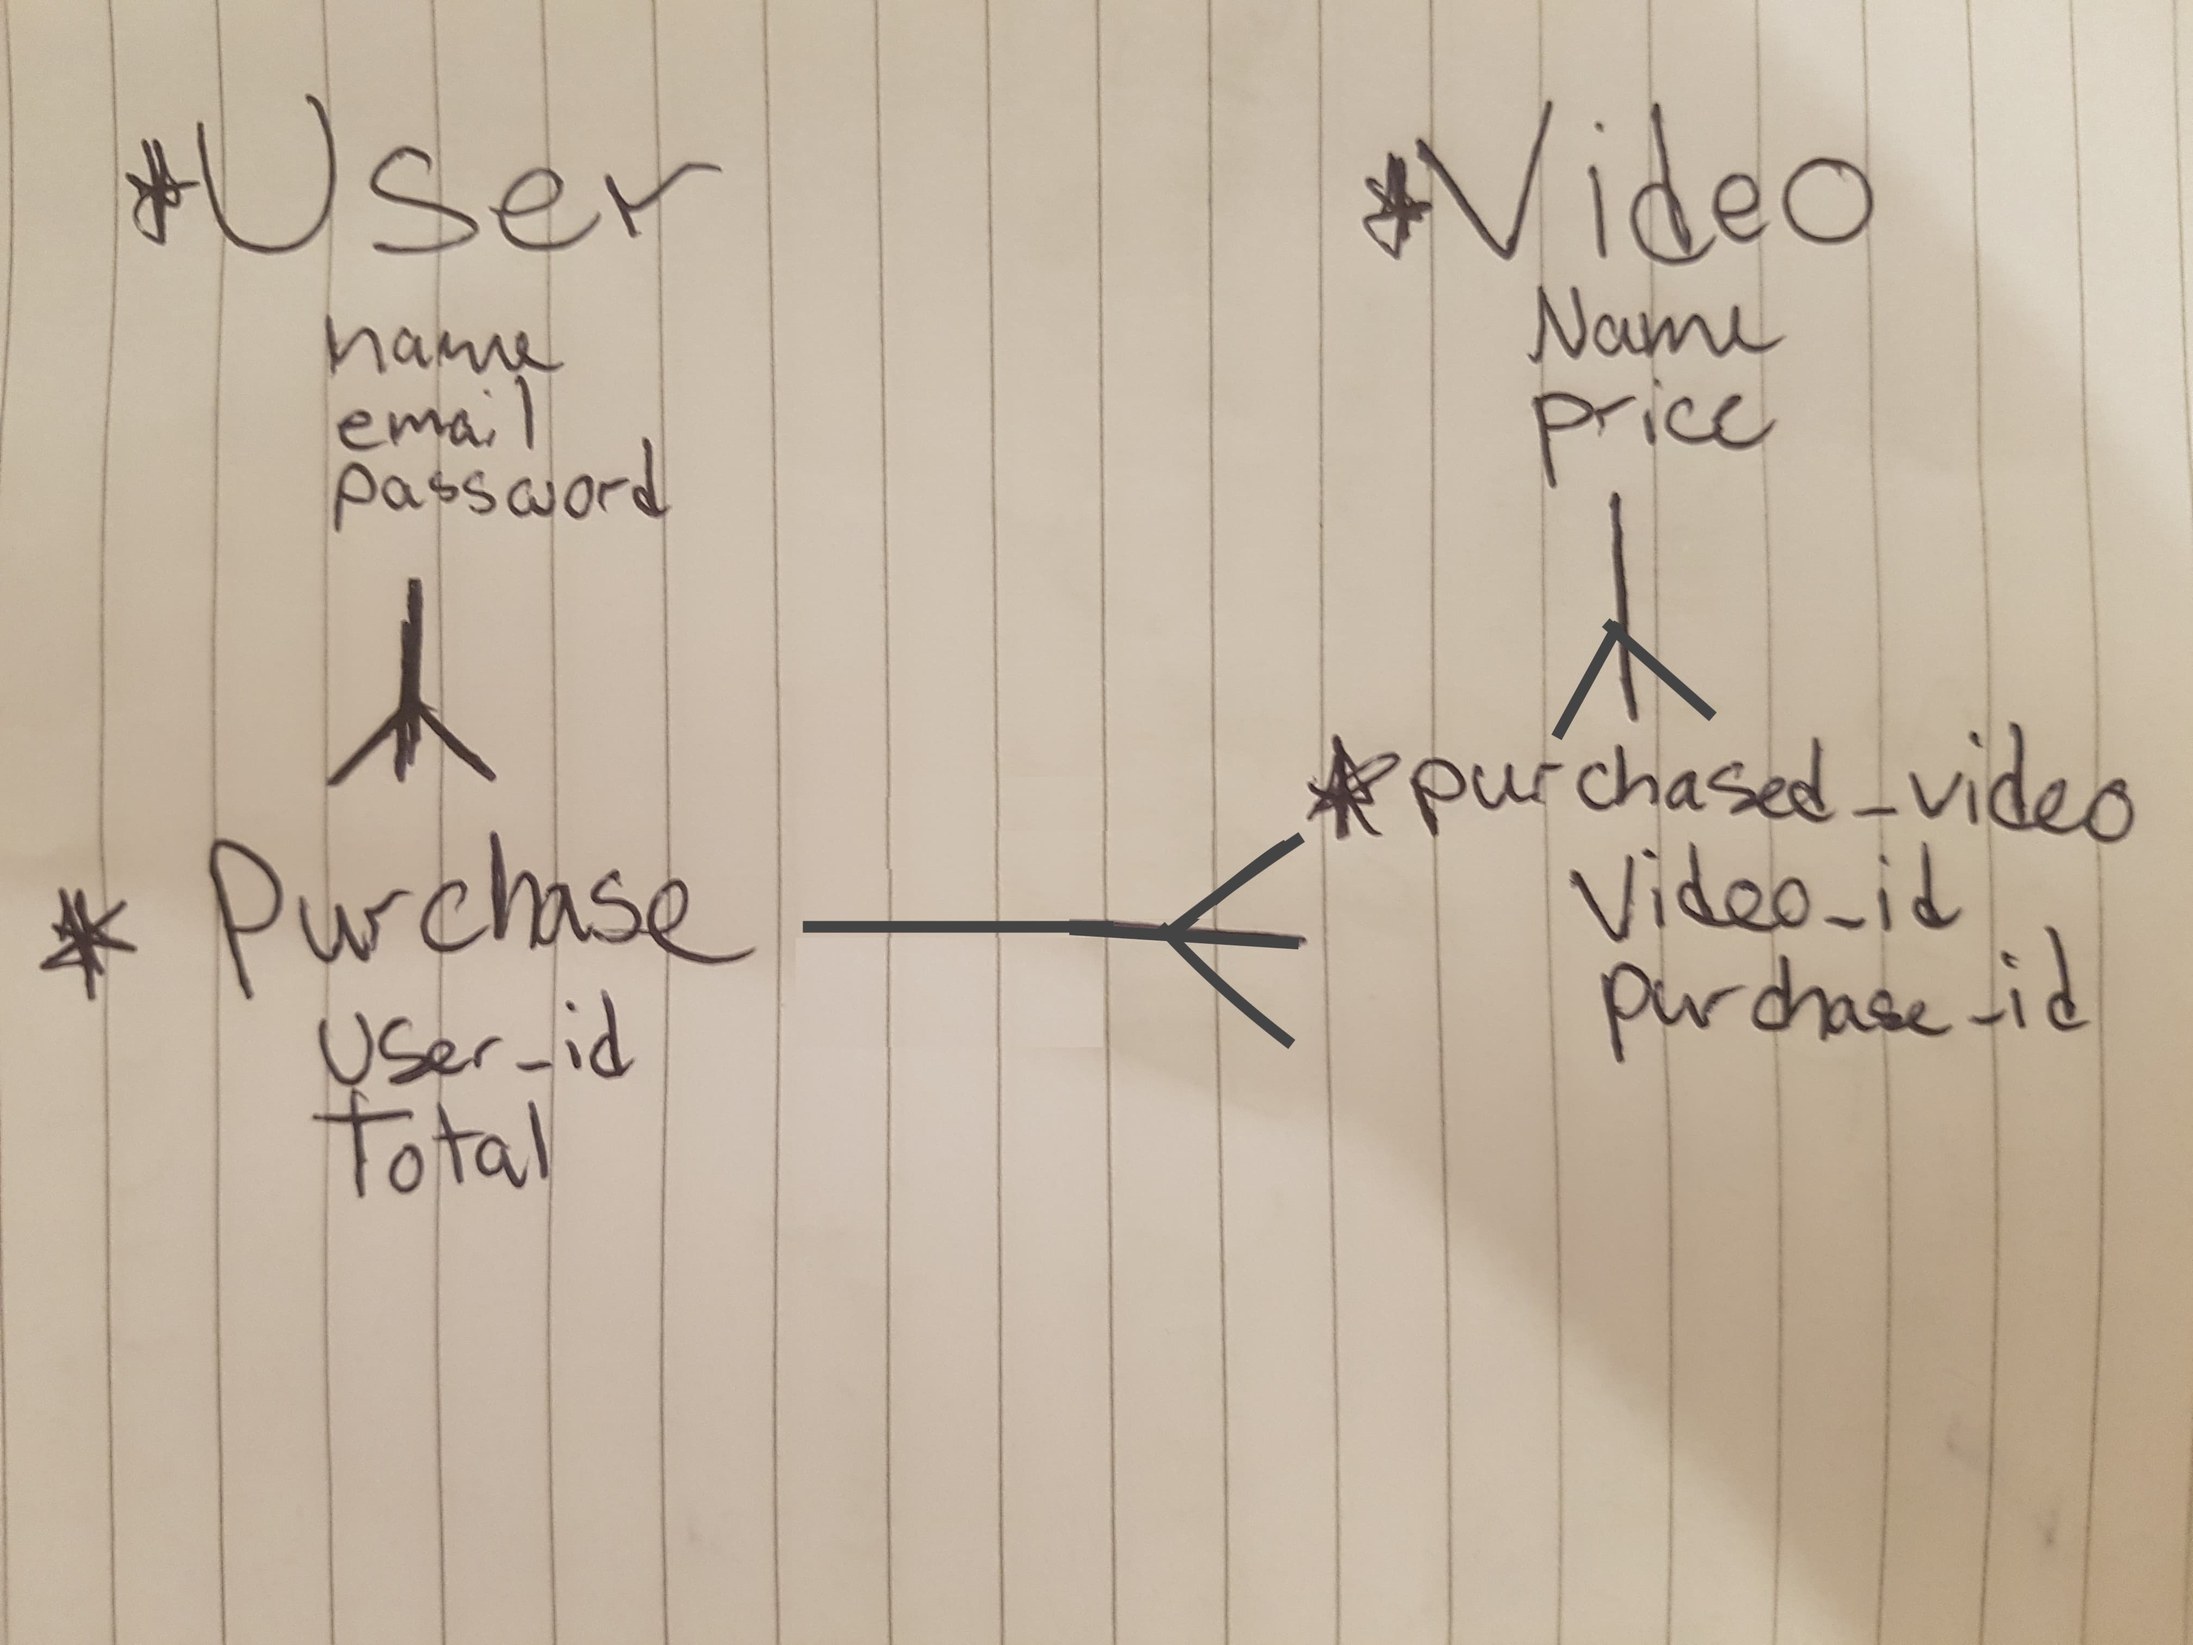
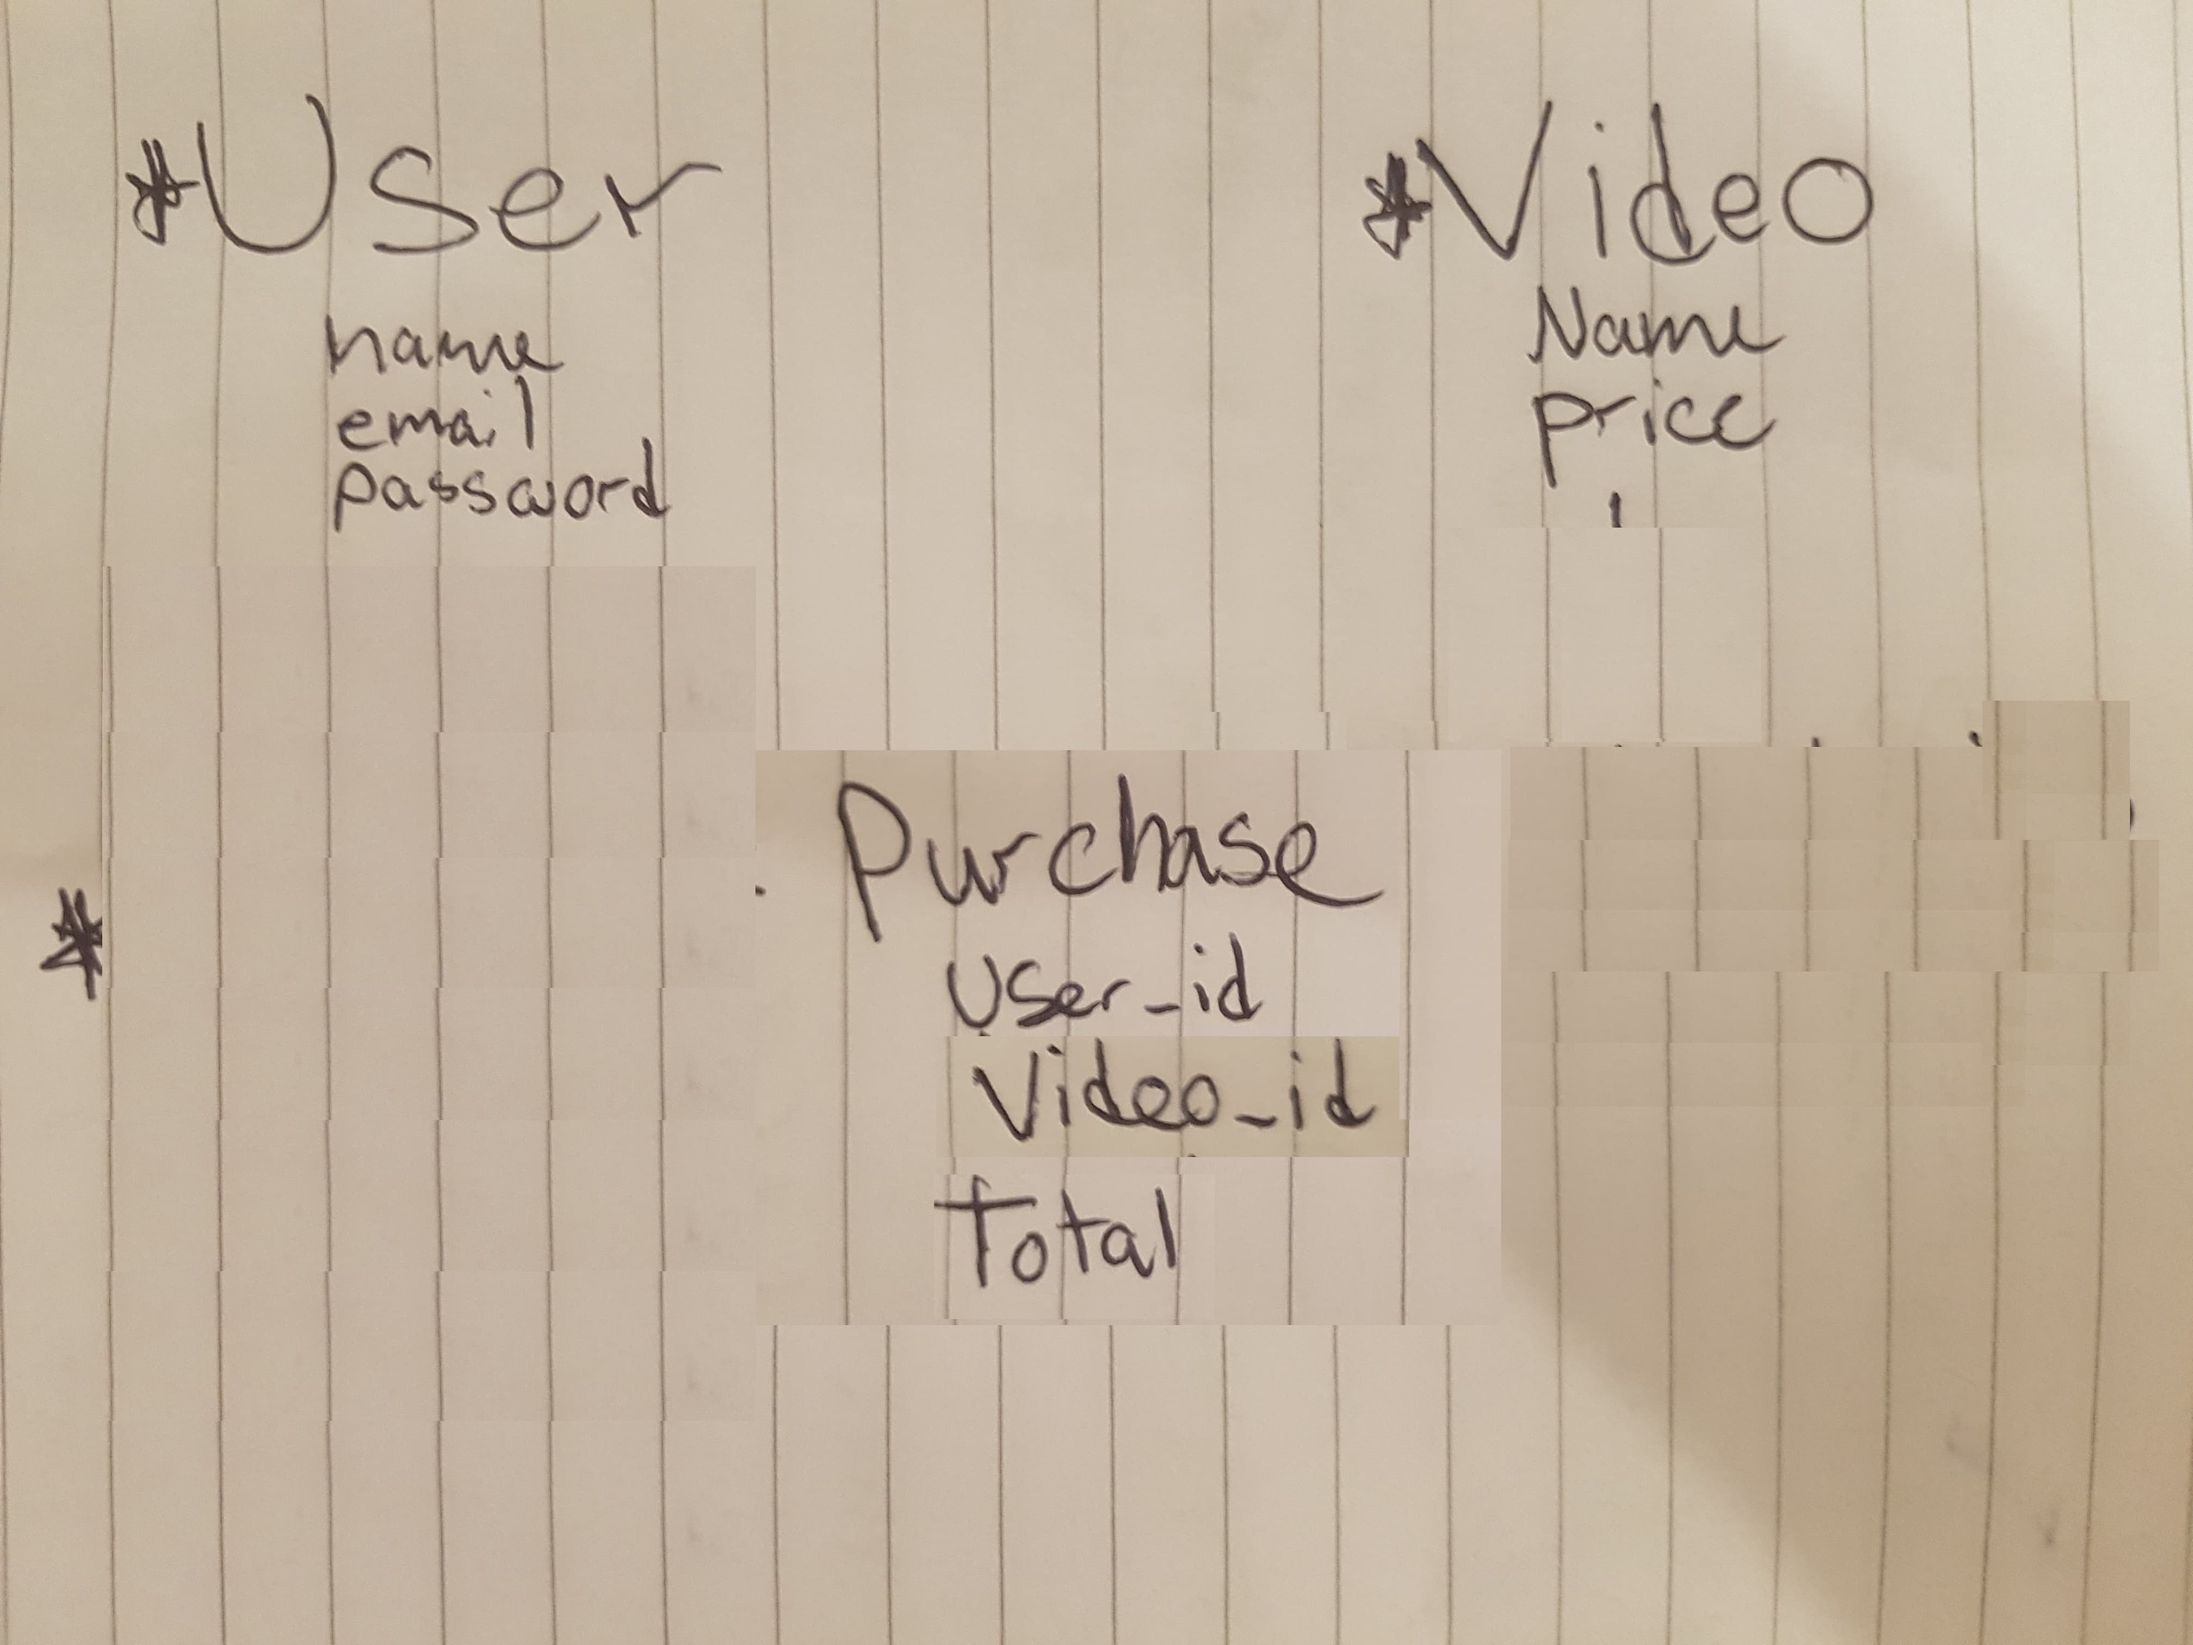
good start backend

diff --git a/project 5/database/app/controllers/videos_controller.rb b/project 5/database/app/controllers/videos_controller.rb
@@ -1,0 +1,47 @@
+class VideosController < ApplicationController
+    before_action :set_video, only: [:show, :edit, :update] # :destroy peut etre plus tard
+
+    def index
+        @videos = Video.all
+        render json: @videos
+    end
+
+    def show
+    end
+
+    def new
+        @video = Video.new
+        render json: @video
+    end
+
+    def create
+        @video = Video.new(video_params)
+        if @video.save
+        render json: @video
+        else
+        render json: {error: 'This video is not valid'}
+        end
+    end
+
+    def edit
+    end
+
+    def update
+        # quelquechoses
+    end
+
+    #   def destroy
+    #     @video.destroy
+    #     render json: {message:'Store deleted successfully'}
+    #     # on verra plus tard si ca me tente de permettre de supprimer son account
+    #   end
+
+    private
+    def video_params
+        params.require(:video).permit(:name, :price, :description, :image_url, :download_url)
+    end
+
+    def set_video
+        @video = video.find(params[:id])
+    end
+end

diff --git a/project 5/database/app/controllers/users_controller.rb b/project 5/database/app/controllers/users_controller.rb
@@ -1,0 +1,47 @@
+class UsersController < ApplicationController
+    before_action :set_user, only: [:show, :edit, :update] # :destroy peut etre plus tard
+
+    def index
+        @users = User.all
+        render json: @users
+    end
+
+    def show
+    end
+
+    def new
+        @user = User.new
+        render json: @user
+    end
+
+    def create
+        @user = User.new(user_params)
+        if @user.save
+        render json: @user
+        else
+        render json: {error: 'This user already exists'}
+        end
+    end
+
+    def edit
+    end
+
+    def update
+        # quelquechoses
+    end
+
+    #   def destroy
+    #     @user.destroy
+    #     render json: {message:'Store deleted successfully'}
+    #     # on verra plus tard si ca me tente de permettre de supprimer son account
+    #   end
+
+    private
+    def user_params
+        params.require(:user).permit(:name, :email, :password)
+    end
+
+    def set_user
+        @user = User.find(params[:id])
+    end
+end

diff --git a/project 5/database/app/controllers/pruchases_controller.rb b/project 5/database/app/controllers/pruchases_controller.rb
@@ -1,0 +1,34 @@
+class PurchaseController < ApplicationController
+    before_action :set_purchase, only: [:show]
+
+    def index
+        @purchases = Purchase.all
+        render json: @purchases
+    end
+
+    def show
+    end
+
+    def new
+        @purchase = Purchase.new
+        render json: @purchase
+    end
+
+    def create
+        @purchase = Purchase.new(purchase_params)
+        if @purchase.save
+        render json: @purchase
+        else
+        render json: {error: 'This purchase is not valid'}
+        end
+    end
+
+    private
+    def purchase_params
+        params.require(:purchase).permit(:user_id, :video_id, :total)
+    end
+
+    def set_purchase
+        @purchase = purchase.find(params[:id])
+    end
+end

diff --git a/project 5/database/db/migrate/20181121141004_create_video.rb b/project 5/database/db/migrate/20181121141004_create_video.rb
@@ -1,0 +1,12 @@
+class CreateVideo < ActiveRecord::Migration[5.2]
+  def change
+    create_table :videos do |t|
+      t.string :name
+      t.float :price
+      t.string :description
+      t.string :image_url
+      t.string :download_url
+      t.timestamps
+    end
+  end
+end

diff --git a/project 5/database/app/models/user.rb b/project 5/database/app/models/user.rb
@@ -1,0 +1,8 @@
+class User < ApplicationRecord
+    has_many: purchases
+    has_many: videos through::purchase
+    has_secure_password
+
+    validates :name, :email, :password, presence: true
+    validates :email, uniqueness: true
+end

diff --git a/project 5/database/db/migrate/20181121141139_create_purchase.rb b/project 5/database/db/migrate/20181121141139_create_purchase.rb
@@ -1,0 +1,10 @@
+class CreatePurchase < ActiveRecord::Migration[5.2]
+  def change
+    create_table :purchases do |t|
+      t.integer :user_id
+      t.integer :video_id
+      t.float :total
+      t.timestamps
+    end
+  end
+end

diff --git a/project 5/database/app/models/video.rb b/project 5/database/app/models/video.rb
@@ -1,0 +1,7 @@
+class User < ApplicationRecord
+    has_many: purchases
+    has_many: users through::purchase
+
+    validates :name, :price, :download_url, presence: true
+    validates :name, :download_url, uniqueness: true
+end

diff --git a/project 5/database/db/migrate/20181121114014_create_user.rb b/project 5/database/db/migrate/20181121114014_create_user.rb
@@ -1,0 +1,10 @@
+class CreateUser < ActiveRecord::Migration[5.2]
+  def change
+    create_table :users do |t|
+      t.string :name
+      t.string :email
+      t.string :password_digest
+      t.timestamps
+    end
+  end
+end

diff --git a/project 5/database/app/models/purchase.rb b/project 5/database/app/models/purchase.rb
@@ -1,0 +1,4 @@
+class Purchase < ApplicationRecord
+    belongs_to: user
+    belongs_to: video
+end
